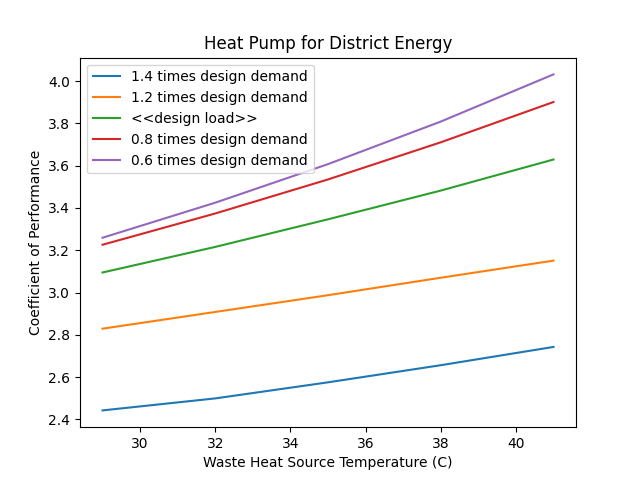
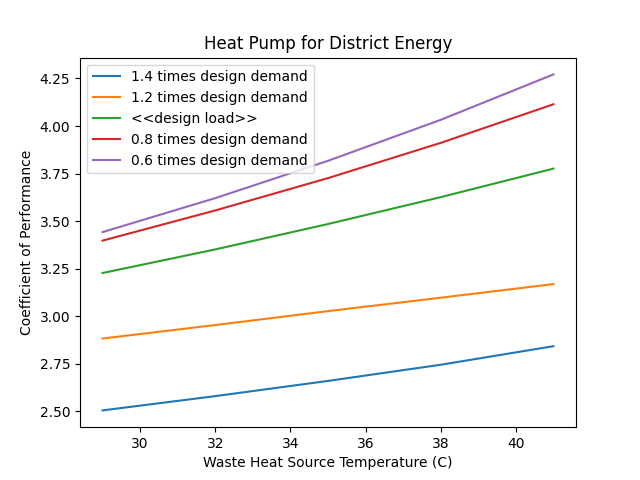
MVP2 This app cannot run in deployment to Heroku, looking for alternatives that do not have a 30s timeout.

diff --git a/api_app/views.py b/api_app/views.py
@@ -226,13 +226,13 @@ class RunSimulation(APIView):
         # }
         # path = { '*/report/'}
 
-        nw.solve('design', max_iter=5)#network solve    
+        nw.solve('design')#network solve #adding in max iterations because of the 30sec limit on Heroku app processing times may result in errant eta_s solutions...
         # nw.print_results()
         
-        nw.save('heat_pump_water')#added in max iterations because of the 30sec limit on Heroku app processing times. May result in errant eta_s solutions...
+        nw.save('heat_pump_water')
         # document_model(nw, filename='report_water_design.tex', fmt=fmt)#output network model to latex report
         # offdesign test
-        # nw.solve('offdesign', design_path='heat_pump_water', max_iter=5)#solve the offdesign values for the network (other projected outcomes)
+        nw.solve('offdesign', design_path='heat_pump_water')#solve the offdesign values for the network (other projected outcomes)
         # document_model(nw, filename='report_water_offdesign.tex', fmt=fmt)#print these alternatives to a latex report
         # #the following comments are from fwitte
         T_range = [sim_parameters.wasted_heat_design_temperature-6, sim_parameters.wasted_heat_design_temperature-3, sim_parameters.wasted_heat_design_temperature, sim_parameters.wasted_heat_design_temperature+3, sim_parameters.wasted_heat_design_temperature+6][::-1]#inverted the temperature and heat provision ranges to always start near the design point specifications rather than further away.
@@ -275,7 +275,7 @@ class RunSimulation(APIView):
 
             for Q in Q_range:
                 cons_1.set_attr(Q=-Q)
-                nw.solve('offdesign', design_path='heat_pump_water', max_iter=5)
+                nw.solve('offdesign', design_path='heat_pump_water')
 
                 if nw.lin_dep:
                     eps += [np.nan]
